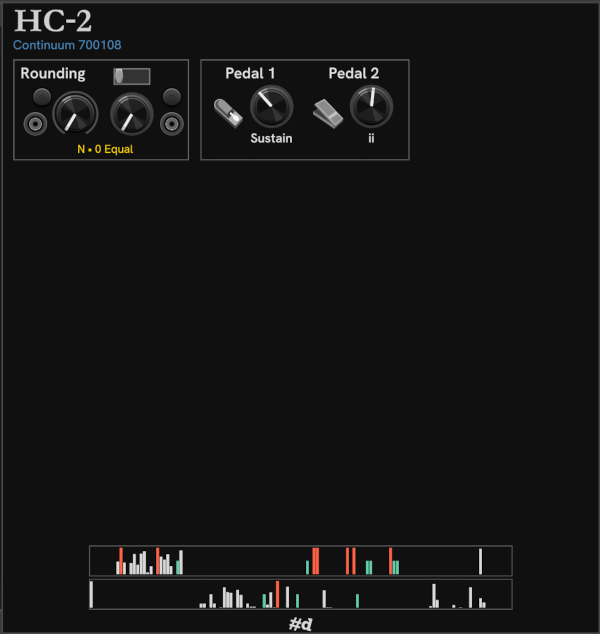
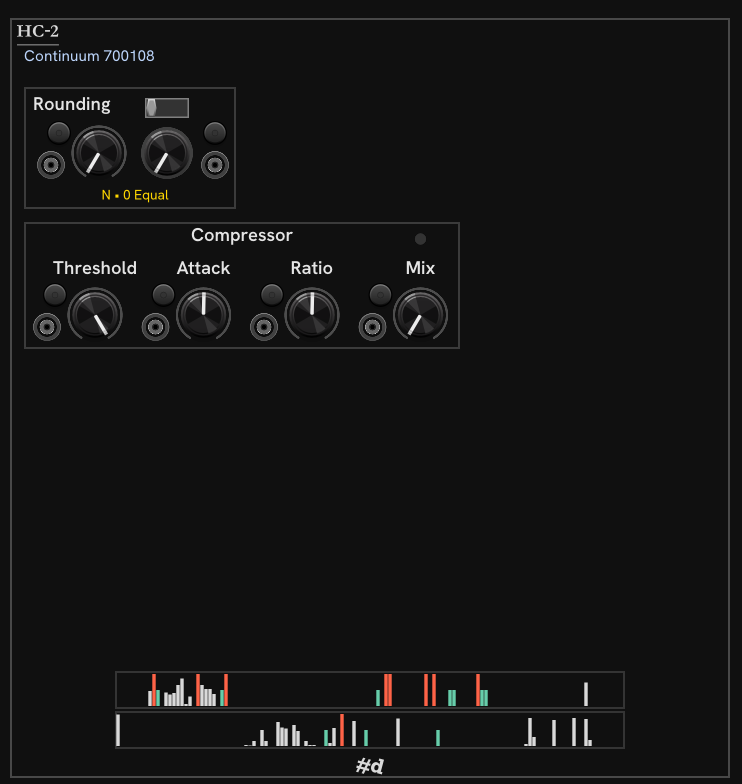
docs/pics

Changed region(s): [[0.0, 0.0, 1.0, 1.0]]

diff --git a/doc/HC-1.md b/doc/HC-1.md
@@ -20,15 +20,12 @@ If you have an issue, please open one in the Github Issues or send me an email.
 
 To install the plugin from Github, please see **Install** in the [README](https://github.com/Paul-Dempsey/pachde-hc-one#installing).
 
-Here is the HC-1 module with it's companions HC-2 and [HC-3](HC-3.md).
+Here is the HC-1 module:
 
-![The HC One modules](HC-1.png)
-
-While they're shown side-by-side as typical for Rack modules with expanders,
-the HC One modules automatically find each other without having to sit next to each other.
+![The HC-1 module](HC-1.png)
 
 When first loaded, there is a long initialization time (a minute or two) to find the EM device, initialize the MIDI ports, and read all user and system presets from the device.
-By default, the list of presets are saved, so the next time you open the patch, it skips loading the lists from the device and you should be up and running quickly.
+By default, the list of system presets are saved, so the next time you open the patch, it skips loading the list from the device and you should be up and running quickly.
 
 You can watch the prograss of the multi-step initialization process with the row of dots on the bottom.
 When everything is connected and working as expected, all the dots are blue, and you can begin playing.
@@ -36,7 +33,7 @@ When everything is connected and working as expected, all the dots are blue, and
 ## Troubleshooting
 
 If you are running on Windows, remember that no other software can open the same MIDI device, unless you have third-party virtual MIDI software or drivers installed.
-SO make sure that you are not running the Haken Editor, a DAW, or other software that already has the device open.
+So, make sure that you are not running the Haken Editor, a DAW, or other software that has the device open.
 
 If HC-1 is unable to successfully connect and initialize fully, check that the Haken Editor can connect to the device.
 If the Haken Editor cannot connect, then neither can HC-1.

diff --git a/doc/index.md b/doc/index.md
@@ -2,7 +2,7 @@
 
 **HC One** is a performance-oriented plugin for Haken Audio's Eagan Matrix.
 The Eagan Matrix is the synth engine for a variety of hardware devices.
-This includes the Haken Continuum, Continuu Mini, Eagan Matrix Module, and the Osmose from Expressive E.
+These include the Haken Continuum, ContinuuMini, EaganMatrix Module, and the Osmose from Expressive E.
 
 **Note** — Osmose has known issues when interfacing with external software.
 External changes are not immediately displayed on it's screens.
@@ -11,21 +11,21 @@ Pachde does not own an Osmose or EMM, so any help testing and documenting any is
 HC One is *not* intended to be a replacement for the Haken Editor.
 The intention is to build out a performance companion for the device.
 
-![HC One modules](HC-1.png)
+![HC One modules](HC-One-modules.png)
 
 HC-1 is the main module.
 The rest are companion modules to HC-1, and require an HC-1 in the patch to do anything.
 HC One modules automatically find each other, so you are free to arrange them wherever in the rack you like.
 They do not have to be side-by-side like Rack expander modules.
 
-Modules:
+The HC-One modules shown here from left to right are:
 
 - **[HC-1](HC-1.md)** Fast access to favorite presets, with knobs and CV inputs for the essential controls: Macros and the Recirculator.
 
-- **[HC-2](HC-2.md)** Rounding, Pedal assignments, and CC maps (more to come).
+- **[Pedal 1 & Pedal 2](Pedals.md)** Pedal control, virtual pedals, and pedal CV in/out.
+
+- **[HC-2](HC-2.md)** Rounding, Compressor, and CC maps (more to come).
 
 - **[HC-3](HC-3.md)** Pushbuttons to access up to 16 Favorite files.
-
-- **[Pedal 1 & Pedal 2](Pedals.md)** Pedal control, virtual pedals, and pedal CV in/out.
 
 ![pachde (#d) logo](Logo.svg)

diff --git a/doc/HC-2.md b/doc/HC-2.md
@@ -1,10 +1,6 @@
 # Module HC-2
 
-HC-2 is a companion to HC-1, offering control of Rounding (including tuning/scale quantization), Pedal assignments, and a live map of MIDI channel 1 and MIDI channel 16 control codes.
-
-Let me know if the HC-2 pedal controls are useful. They are redundant given the complete support for pedals present in the Pedal 1 and Pedal 2 modules.
-
-For more detailed pedal control, see [Pedal 1 and Pedal 2](Pedals.md).
+HC-2 is a companion to HC-1, offering control of Rounding (including tuning/scale quantization), the Compressor, and a live map of MIDI channel 1 and MIDI channel 16 control codes.
 
 ![HC-2 module](HC-2.png)
 

diff --git a/doc/Pedals.md b/doc/Pedals.md
@@ -14,7 +14,7 @@ From top to bottom, left to right:
 
 - (NYI) On the left are controls to set the minimum and maximum values for the pedal.
 
-- The slider is a virtual pedal. Drag the handle to change the pedal value.
+- The slider is a virtual pedal. Drag the handle or click anywhere on the bar to change the pedal value.
   Like all Rack knobs and sliders, hold Ctrl (fine) or Shift (coarse) while dragging to change the speed.
   When the mouse cursor is over the slider, you can roll the mouse wheel to change the value. Hold Shift, then roll to scroll faster.
 
